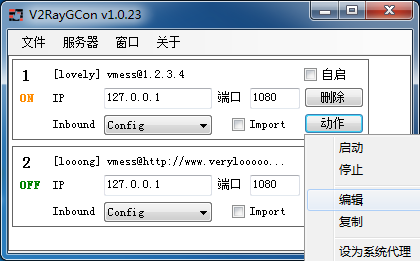
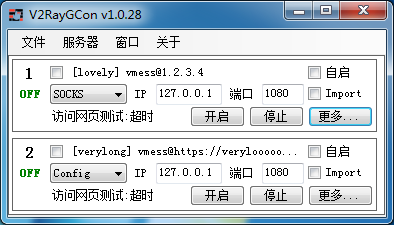
(issue 9)设置系统代理后添加提示

diff --git a/V2RayGCon/Resource/Resx/Text.Designer.cs b/V2RayGCon/Resource/Resx/Text.Designer.cs
@@ -1111,6 +1111,16 @@ namespace V2RayGCon.Resource.Resx {
         }
         
         /// <summary>
+        ///   查找类似 Set system proxy complete.
+        ///This setting will be cleared when this software exits. 的本地化字符串。
+        /// </summary>
+        internal static string SetSysProxyDone {
+            get {
+                return ResourceManager.GetString("SetSysProxyDone", resourceCulture);
+            }
+        }
+        
+        /// <summary>
         ///   查找类似 Speed test 的本地化字符串。
         /// </summary>
         internal static string SpeedTest {

diff --git a/V2RayGCon/Model/UserControls/ServerListItem.cs b/V2RayGCon/Model/UserControls/ServerListItem.cs
@@ -118,7 +118,8 @@ namespace V2RayGCon.Model.UserControls
                         this.tboxInboundIP.Text,
                         this.tboxInboundPort.Text));
 
-                    MessageBox.Show(I18N("Done"));
+                    // issue #9
+                    MessageBox.Show(I18N("SetSysProxyDone"));
                 }),
             });
         }

diff --git a/V2RayGCon/Properties/Resources.Designer.cs b/V2RayGCon/Properties/Resources.Designer.cs
@@ -126,7 +126,7 @@ namespace V2RayGCon.Properties {
         }
         
         /// <summary>
-        ///   查找类似 1.0.27 的本地化字符串。
+        ///   查找类似 1.0.28 的本地化字符串。
         /// </summary>
         internal static string Version {
             get {
